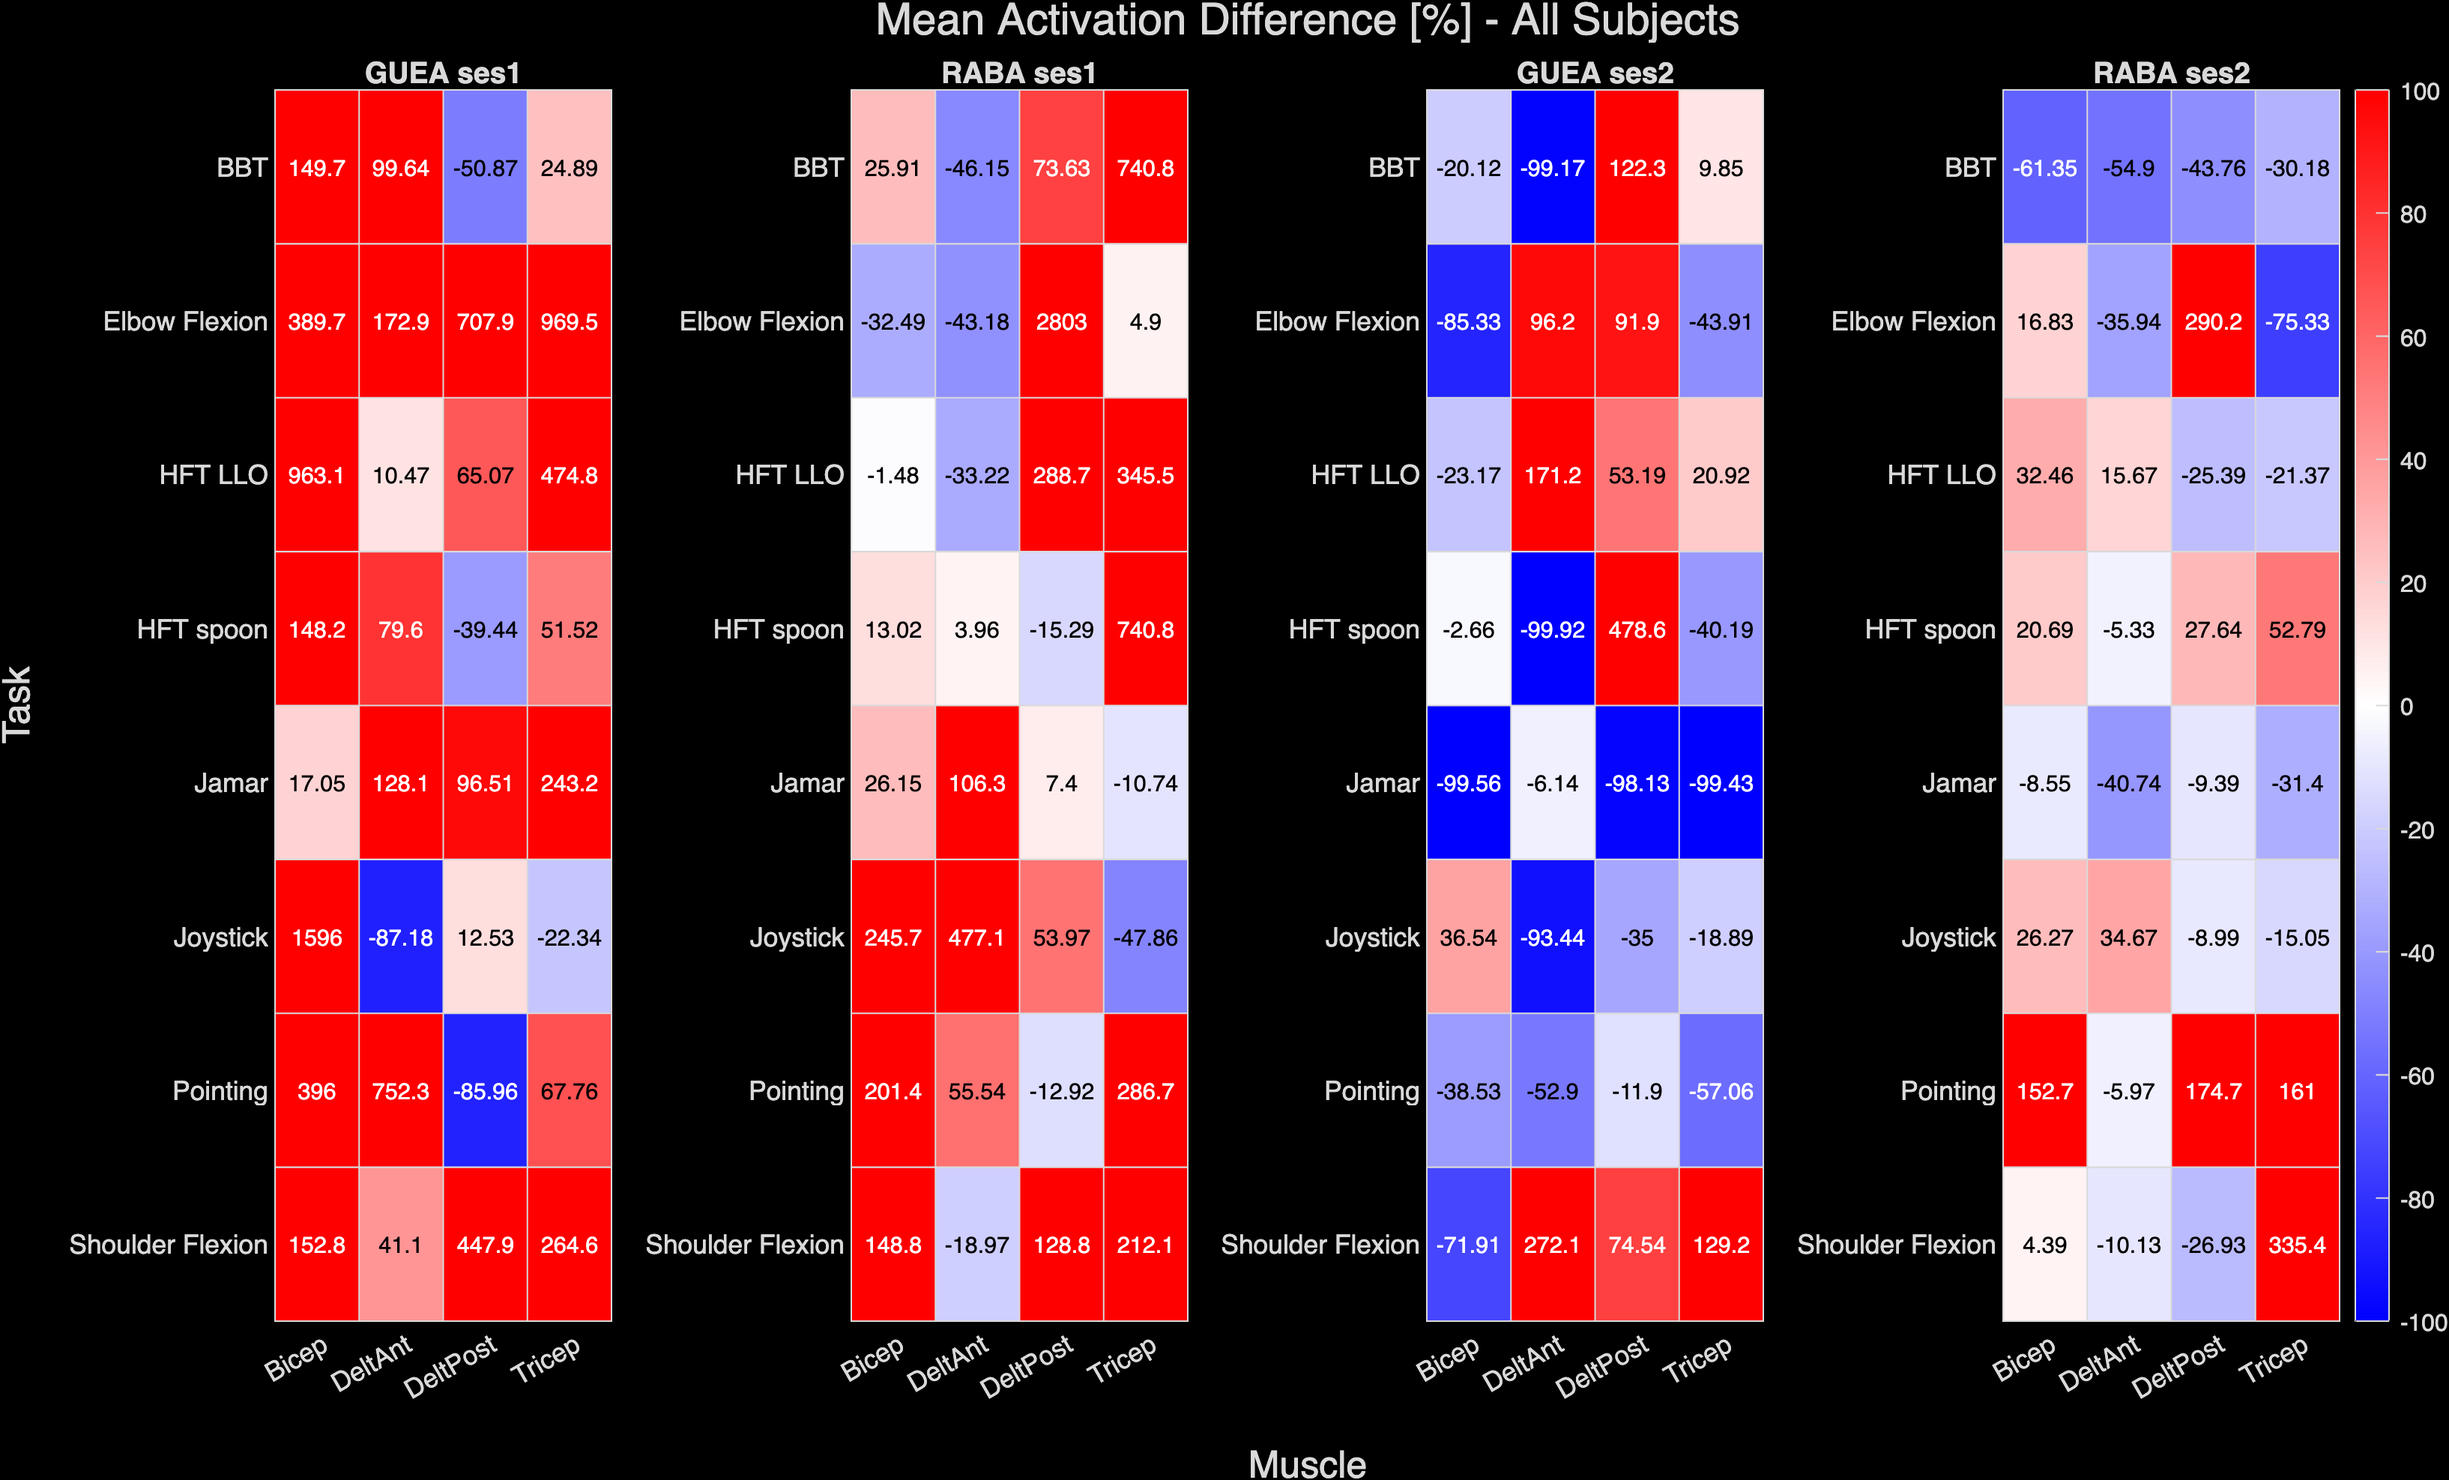
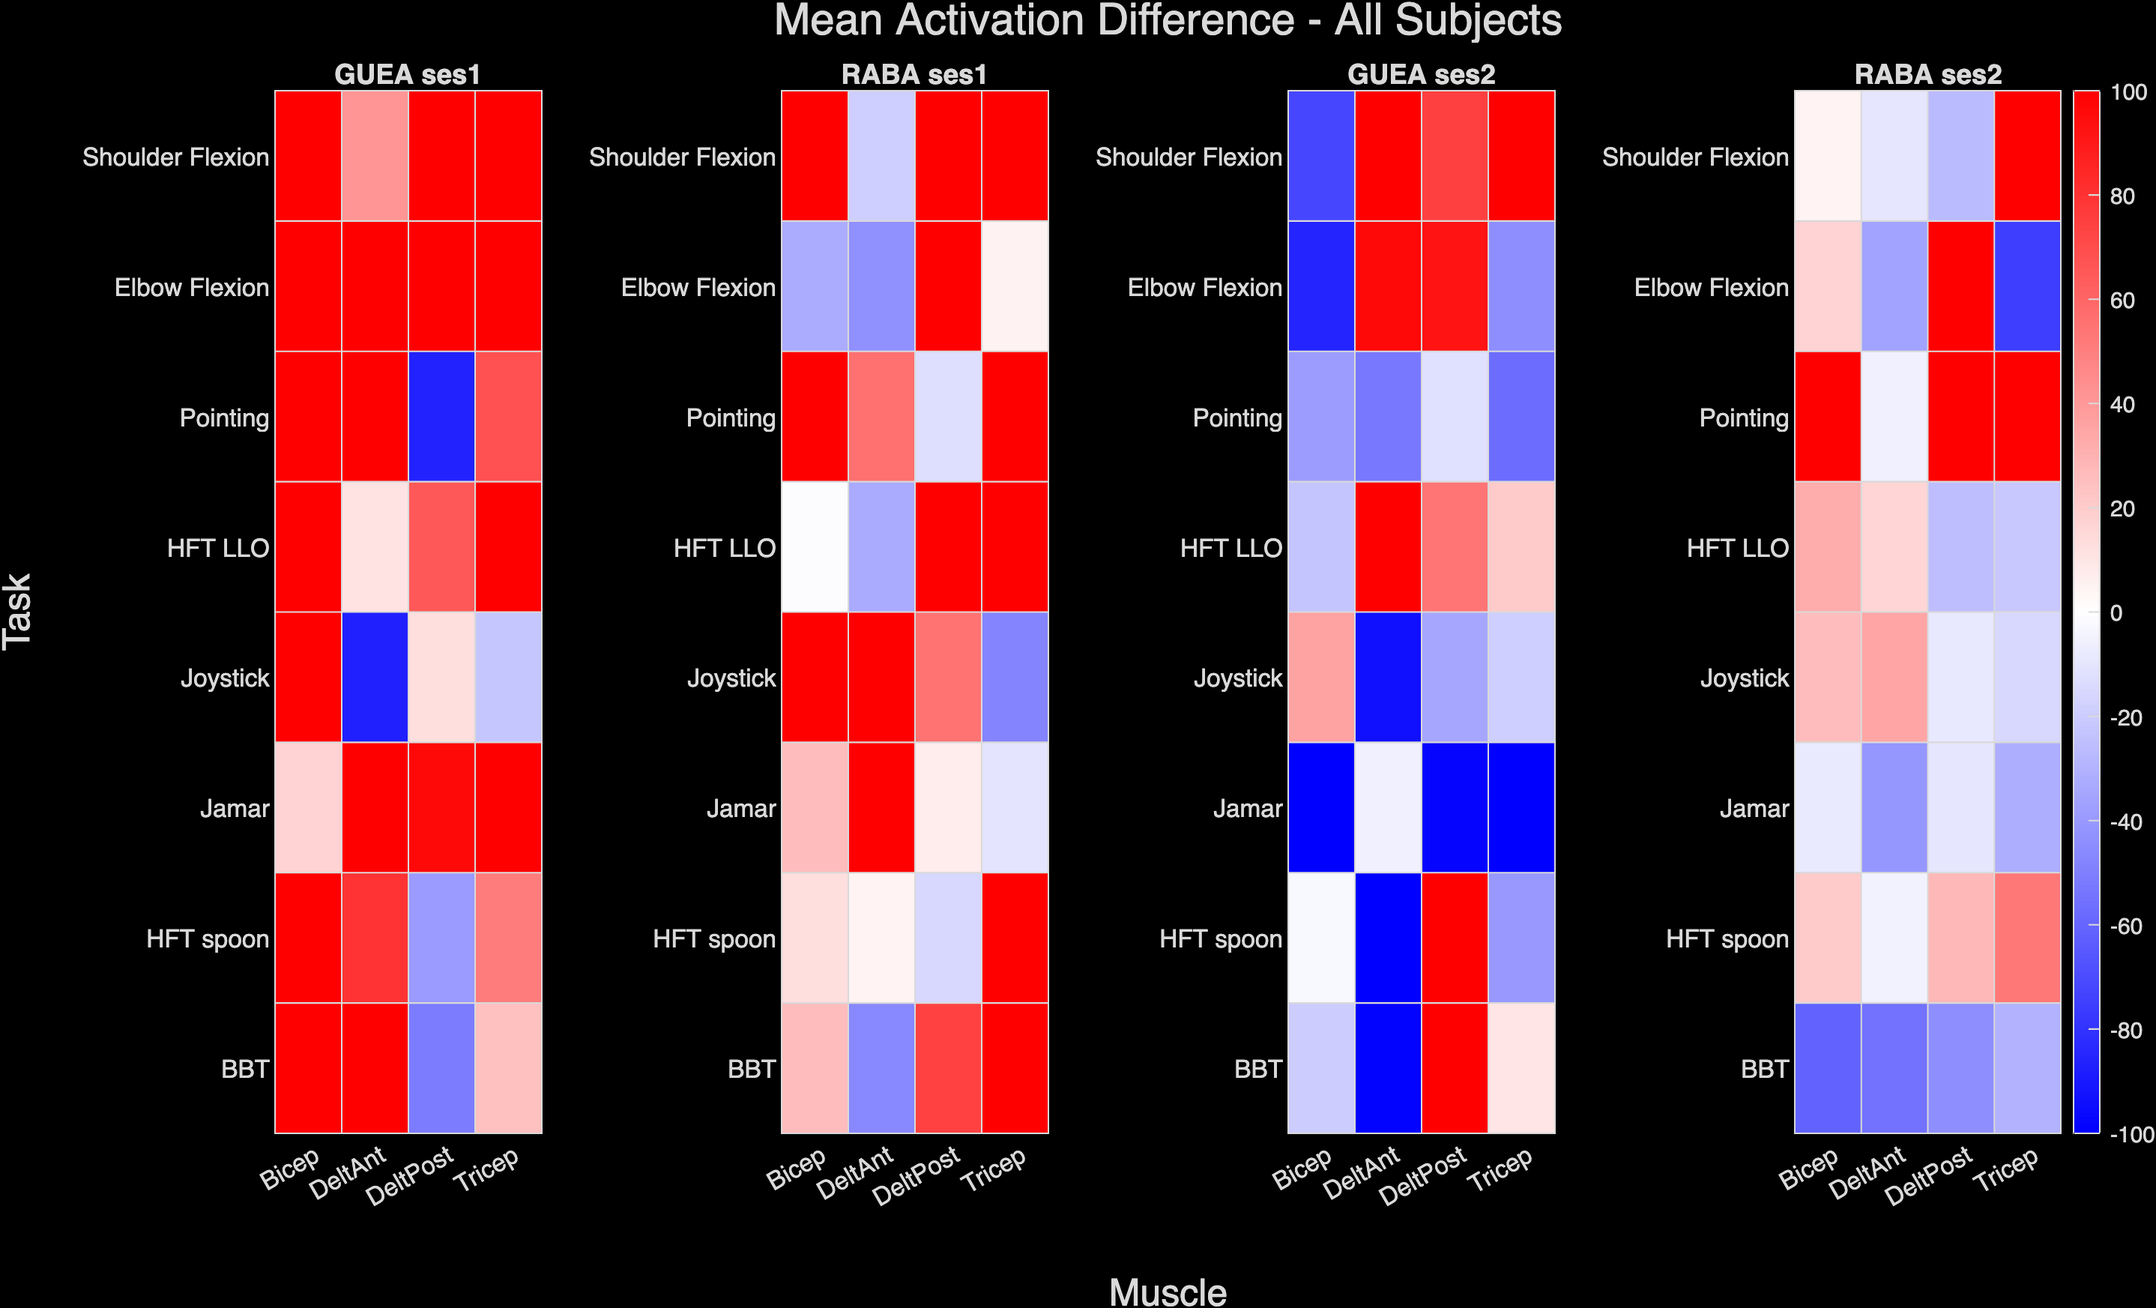
Adjust order in heatmap tasks

diff --git a/src/heatmaps/heatmap_CAI_diff.m b/src/heatmaps/heatmap_CAI_diff.m
@@ -16,6 +16,18 @@ parts = split(sub_table.Criteria, "-CAI_");
 sub_table.Task = replace(parts(:,1), '_', ' ');
 sub_table.Muscle = parts(:,2);
 
+% Define task order
+taskOrder = [
+    "Shoulder Flexion"
+    "Elbow Flexion"
+    "Pointing"
+    "HFT LLO"
+    "Joystick"
+    "Jamar"
+    "HFT spoon"
+    "BBT"];
+sub_table.Task = categorical(sub_table.Task, taskOrder, 'Ordinal', true);
+
 % Get subject columns
 vars = sub_table.Properties.VariableNames;
 data_vars = vars(~ismember(vars, ["Criteria","Task","Muscle"]));
